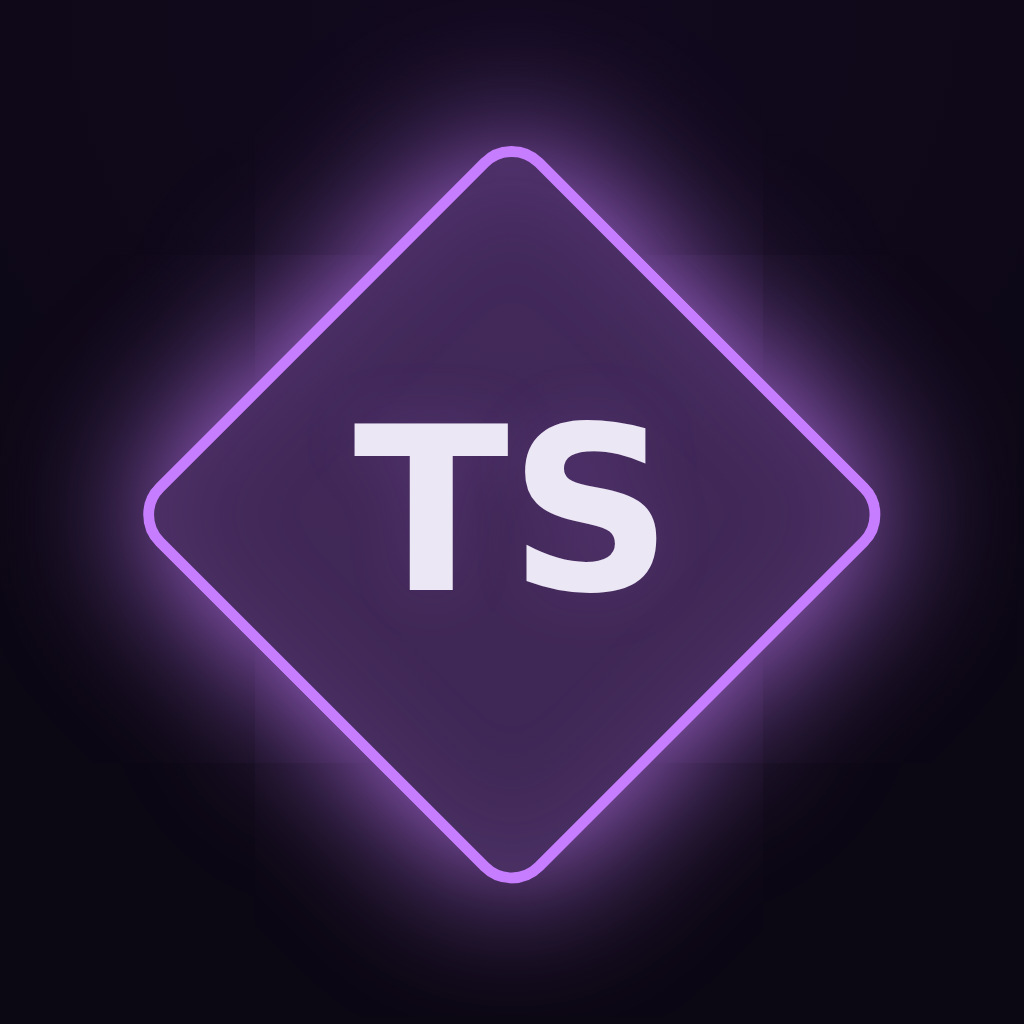
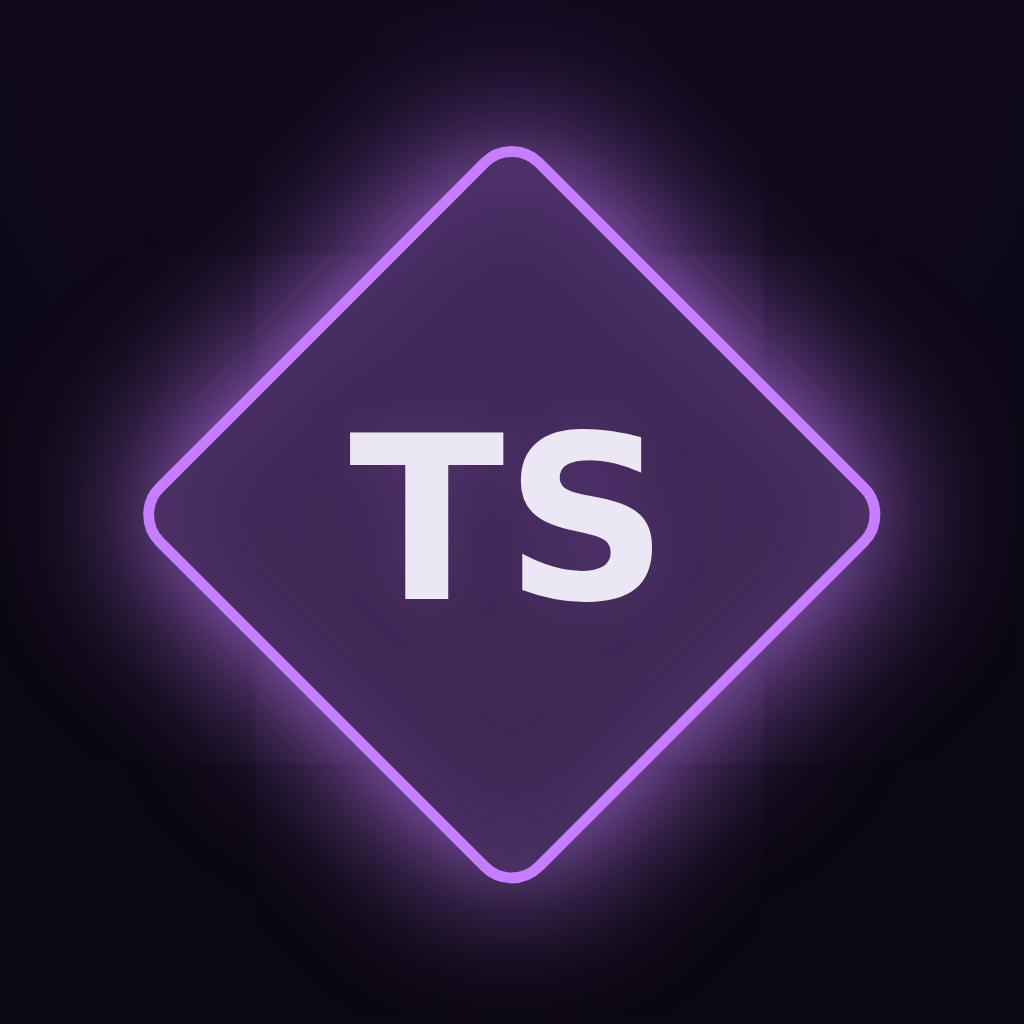
Centre note glyphs on their letters, not their line box
`place-items: center` centres a glyph's LINE BOX. A line box reserves
descender room, and none of our labels have descenders (F♯, m3, R, A2),
so every note letter in every tile sat slightly above the diamond's true
centre — roughly 2.4% of font size, small but visible once you look.

Trim the box to cap-height and baseline so the letters themselves are
what gets centred. This is one declaration on `.cell .glyph`, so it lands
on grid cells and target-sequence tokens alike — the two stay identical,
which is the point.

Deliberately font-agnostic. The size of the gap comes from the font's own
ascent/descent metrics, and `system-ui` is a different font on every
platform, so a hand-tuned offset would be right on one machine and wrong
on the next; `text-box` makes the browser do it against the real metrics.
Browsers without support keep today's line-box centring, so the fallback
is the current look rather than a broken one.

This also lets the icon generator drop the ink-centring nudge it grew in
the previous commit: the app's own stylesheet now handles it, so the icon
is back to being nothing but a screenshot of a real tile.

Claude-Session: https://claude.ai/code/session_018kVb89TrapSbbTEtgnd5u1

Changed region(s): [[0.3438, 0.4062, 0.6562, 0.5938], [0.625, 0.5, 0.6562, 0.5312]]

diff --git a/src/style.css b/src/style.css
@@ -152,6 +152,14 @@ body {
   text-shadow: 0 0 6px var(--neon-dim);
   line-height: 1;
   white-space: nowrap;
+  /* Centre the LETTERS, not the line box. A line box reserves descender room,
+     and our labels (F♯, m3, R) have no descenders, so `place-items: center`
+     left the visible mark sitting slightly high. Trimming the box to cap-height
+     and baseline centres the ink instead. Font-agnostic on purpose: the size of
+     that gap depends on the font's metrics, and `system-ui` is a different font
+     on every platform, so a hand-tuned offset would be wrong somewhere.
+     Unsupported browsers simply keep the old line-box centring. */
+  text-box: trim-both cap alphabetic;
 }
 /* Selected cells are lit the same in both views. A selected grid cell is not
    .clickable (game.ts drops that once it's in the selection), so it would fall
